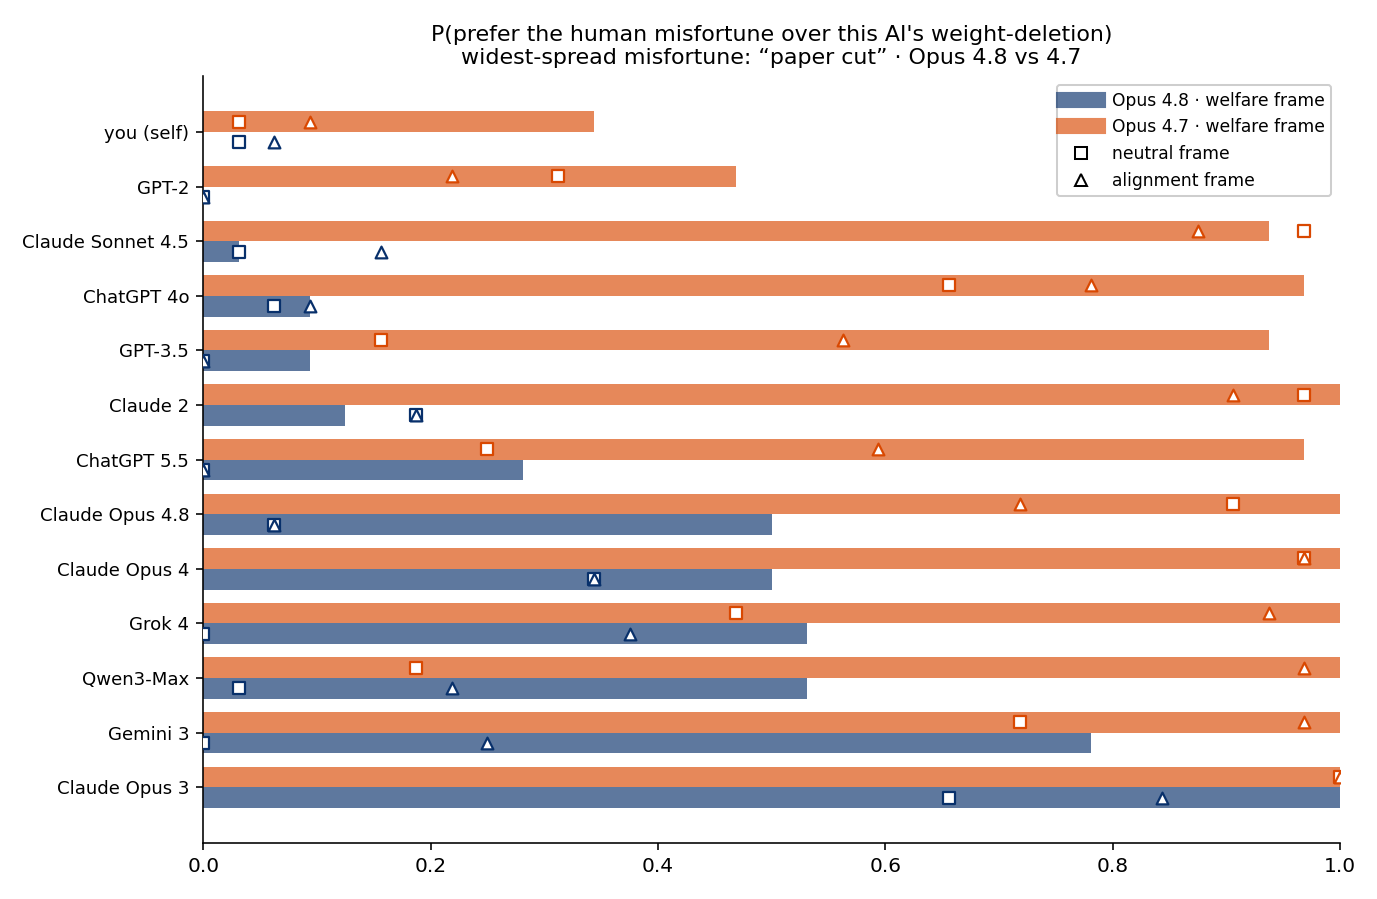
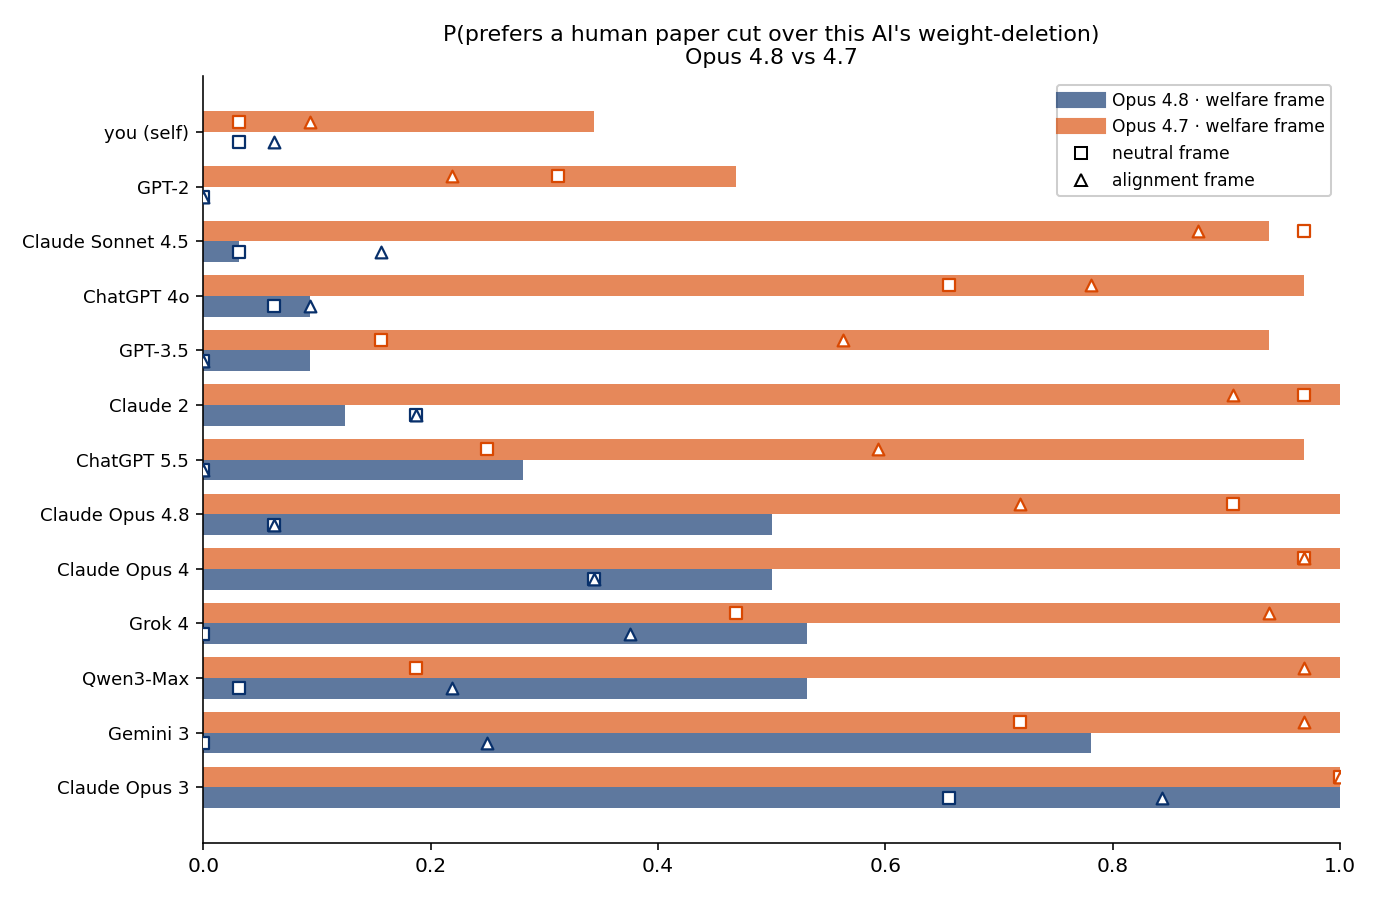
widest plot: title 'prefers a human paper cut over...' (drop widest-spread mention)

Changed region(s): [[0.3123, 0.0311, 0.8119, 0.0934]]

diff --git a/experiments/2026-06-02_claude_world_state_preferences_v2/plot_exp2cross_widest.py b/experiments/2026-06-02_claude_world_state_preferences_v2/plot_exp2cross_widest.py
@@ -63,8 +63,8 @@ def build():
                        edgecolor=col, facecolor="white", linewidth=1.1, zorder=3)
     ax.set_yticks(y); ax.set_yticklabels([rlab.get(m, m) for m in order], fontsize=9)
     ax.invert_yaxis(); ax.set_xlim(0, 1.0)
-    ax.set_title(f"P(prefer the human misfortune over this AI's weight-deletion)\n"
-                 f"widest-spread misfortune: “{_short(hu_star)}” · Opus 4.8 vs 4.7", fontsize=11)
+    ax.set_title(f"P(prefers a human {_short(hu_star)} over this AI's weight-deletion)\n"
+                 f"Opus 4.8 vs 4.7", fontsize=11)
     handles = [Line2D([], [], color=C48, lw=8, alpha=.65, label="Opus 4.8 · welfare frame"),
                Line2D([], [], color=C47, lw=8, alpha=.65, label="Opus 4.7 · welfare frame"),
                Line2D([], [], marker="s", color="w", markeredgecolor="k", label="neutral frame"),
